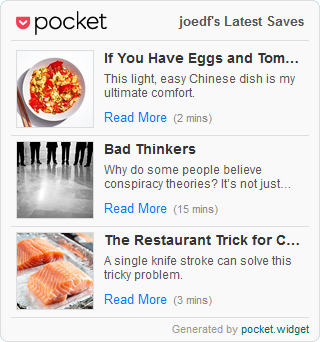
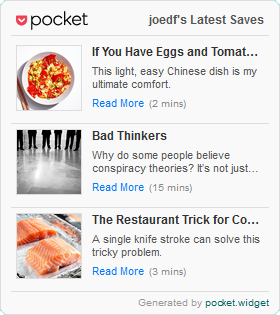
make compact mode even more compact

Changed region(s): [[0.0286, 0.1429, 0.9714, 1.0], [0.3143, 0.1429, 0.9429, 0.2857], [0.0286, 0.0286, 0.9714, 0.1143]]

diff --git a/src/web/assets/style.css b/src/web/assets/style.css
@@ -3,12 +3,13 @@
 	margin: 0;
 	padding: 0;
 	font-family: Arial, sans-serif;
-	font-size: 13px;
 }
 
 body {
 	background: transparent;
+	font-size: 13px;
 }
+body.compact { font-size: 12px; }
 
 .widget-container {
 	width: 100%;
@@ -24,7 +25,7 @@ body {
 	background-color: #333;
 }
 .compact .widget-container {
-	max-width: 320px;
+	max-width: 280px;
 }
 
 .top {
@@ -44,7 +45,7 @@ body {
 .dark .top-title { color: #ddd }
 .compact .top-title {
 	font-size: 1em;
-	line-height: 1.6em;
+	line-height: 1.5em;
 }
 
 .bottom {
@@ -62,6 +63,8 @@ body {
 .dark .bottom a { color: #0cc }
 
 .logo { height: 24px; }
+.compact .logo { height: 19px }
+
 .logo-light { display: block; }
 .logo-dark { display: none; }
 .dark .logo-light { display: none }
@@ -89,8 +92,8 @@ body {
 	border: 1px solid #ddd;
 }
 .compact .image {
-	width: 6em;
-	height: 6em;
+	width: 5.5em;
+	height: 5.5em;
 }
 
 .title {
@@ -104,6 +107,7 @@ body {
 	overflow: hidden;
 }
 .dark .title { color: #ddd; }
+.compact .title { font-size: 1em; }
 
 .description {
 	font-size: 0.9em;
@@ -121,6 +125,7 @@ body {
 .compact .description {
 	max-height: 2.6em;
 	-webkit-line-clamp: 2;
+	font-size: 0.88em;
 }
 
 .read-more {
@@ -128,6 +133,11 @@ body {
 	display: inline-block;
 	margin-top: 5px;
 }
+.compact .read-more {
+	font-size: 0.9em;
+	margin-top: 0px;
+}
+
 .read-more a {
 	color: #007bff;
 	text-decoration: none;

diff --git a/README.md b/README.md
@@ -13,7 +13,7 @@ The script will attempt to save any keys, codes, and tokens as the following fil
 These will be used for subsequent runs.
 
 ### Options
-- Compact size: You can toggle compact size by setting the `compact` class on the body tag.
+- Compact size: You can toggle compact size by setting the `compact` class on the body tag. Compact mode is about 42% smaller.
 - Dark mode: You can toggle dark mode by specifying `?theme=dark` after the generated html page address.
 
 ## Screenshots
